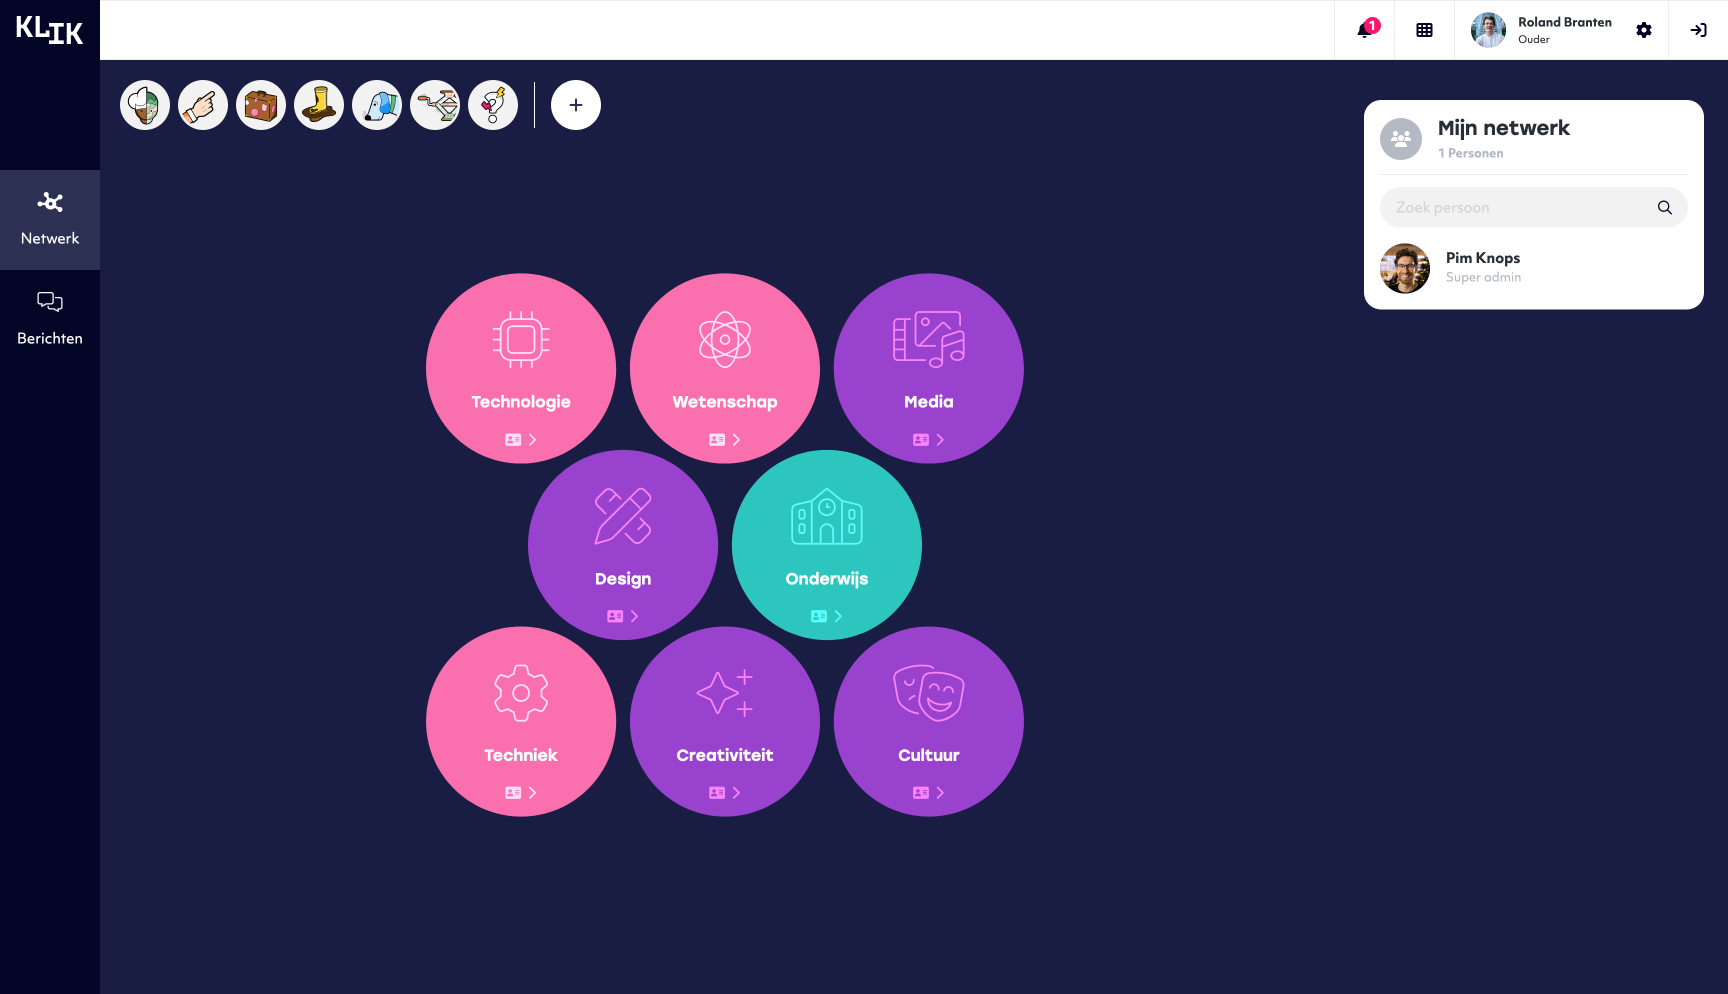
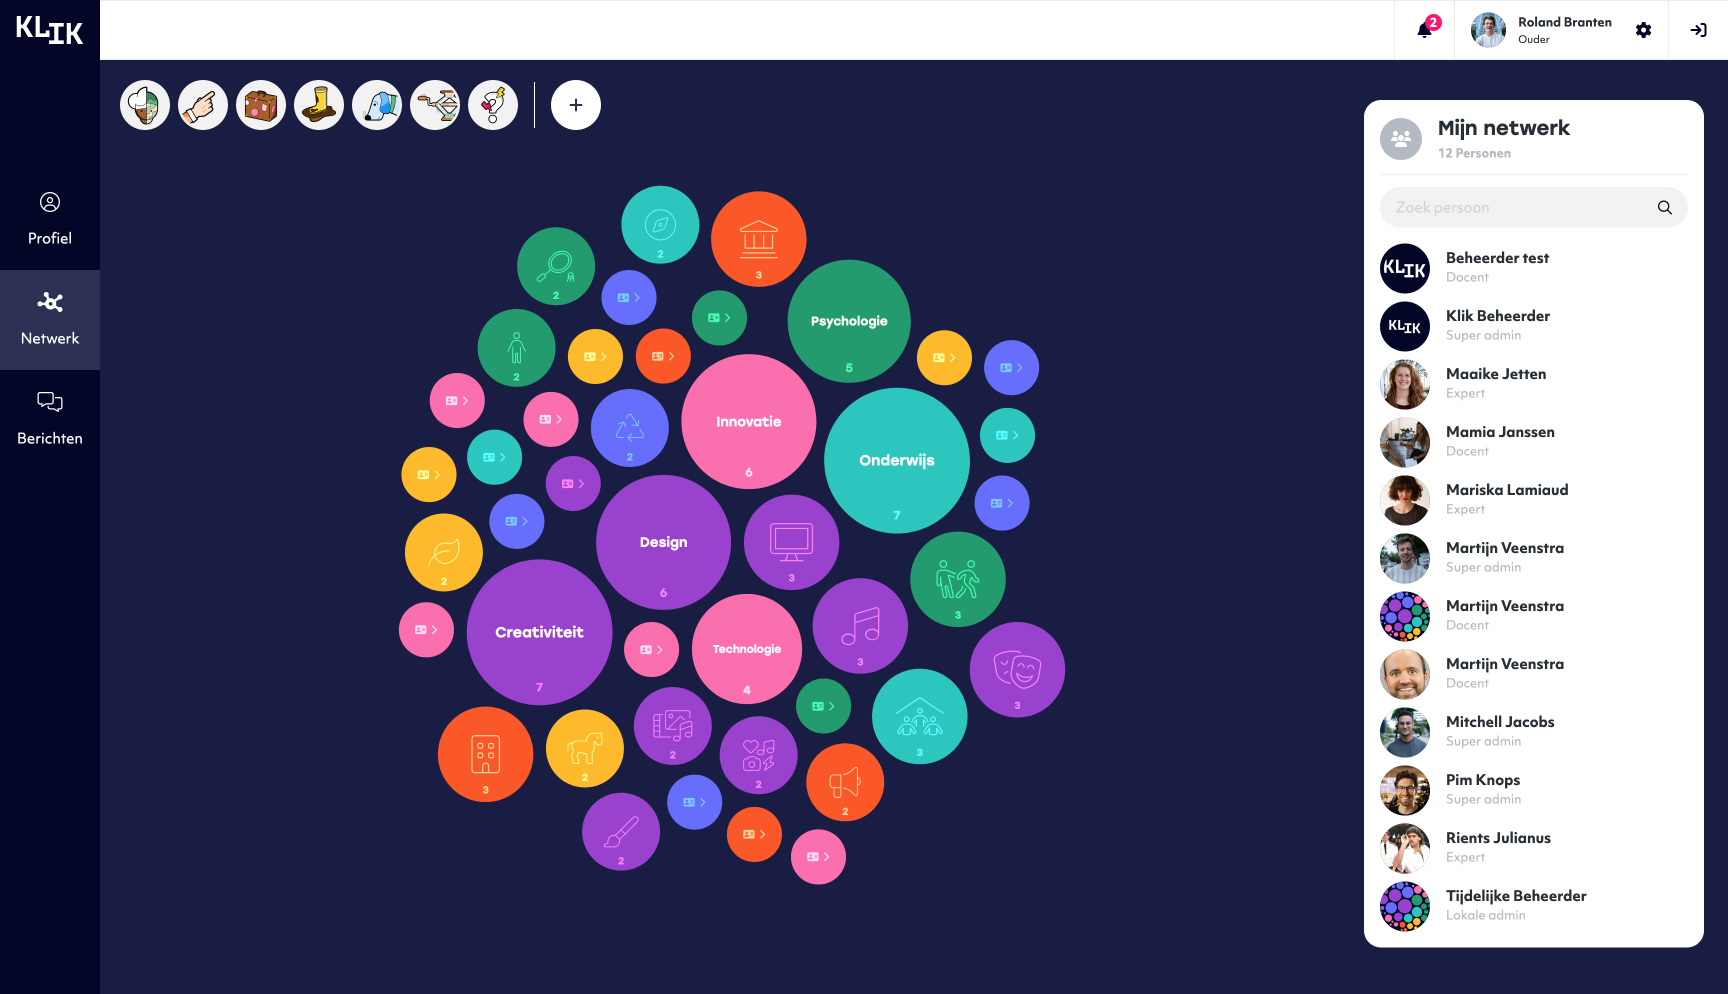
Add Klik images

diff --git a/database/work.ts b/database/work.ts
@@ -32,7 +32,7 @@ export const projects: ProjectType[] = [
     color: '#030626',
     url: 'https://klik.tast.cloud/',
     marketingUrl: 'https://klik.tast.tools',
-    amountOfImages: 5,
+    amountOfImages: 8,
     behindPaywall: true,
   },
   // Spiek
